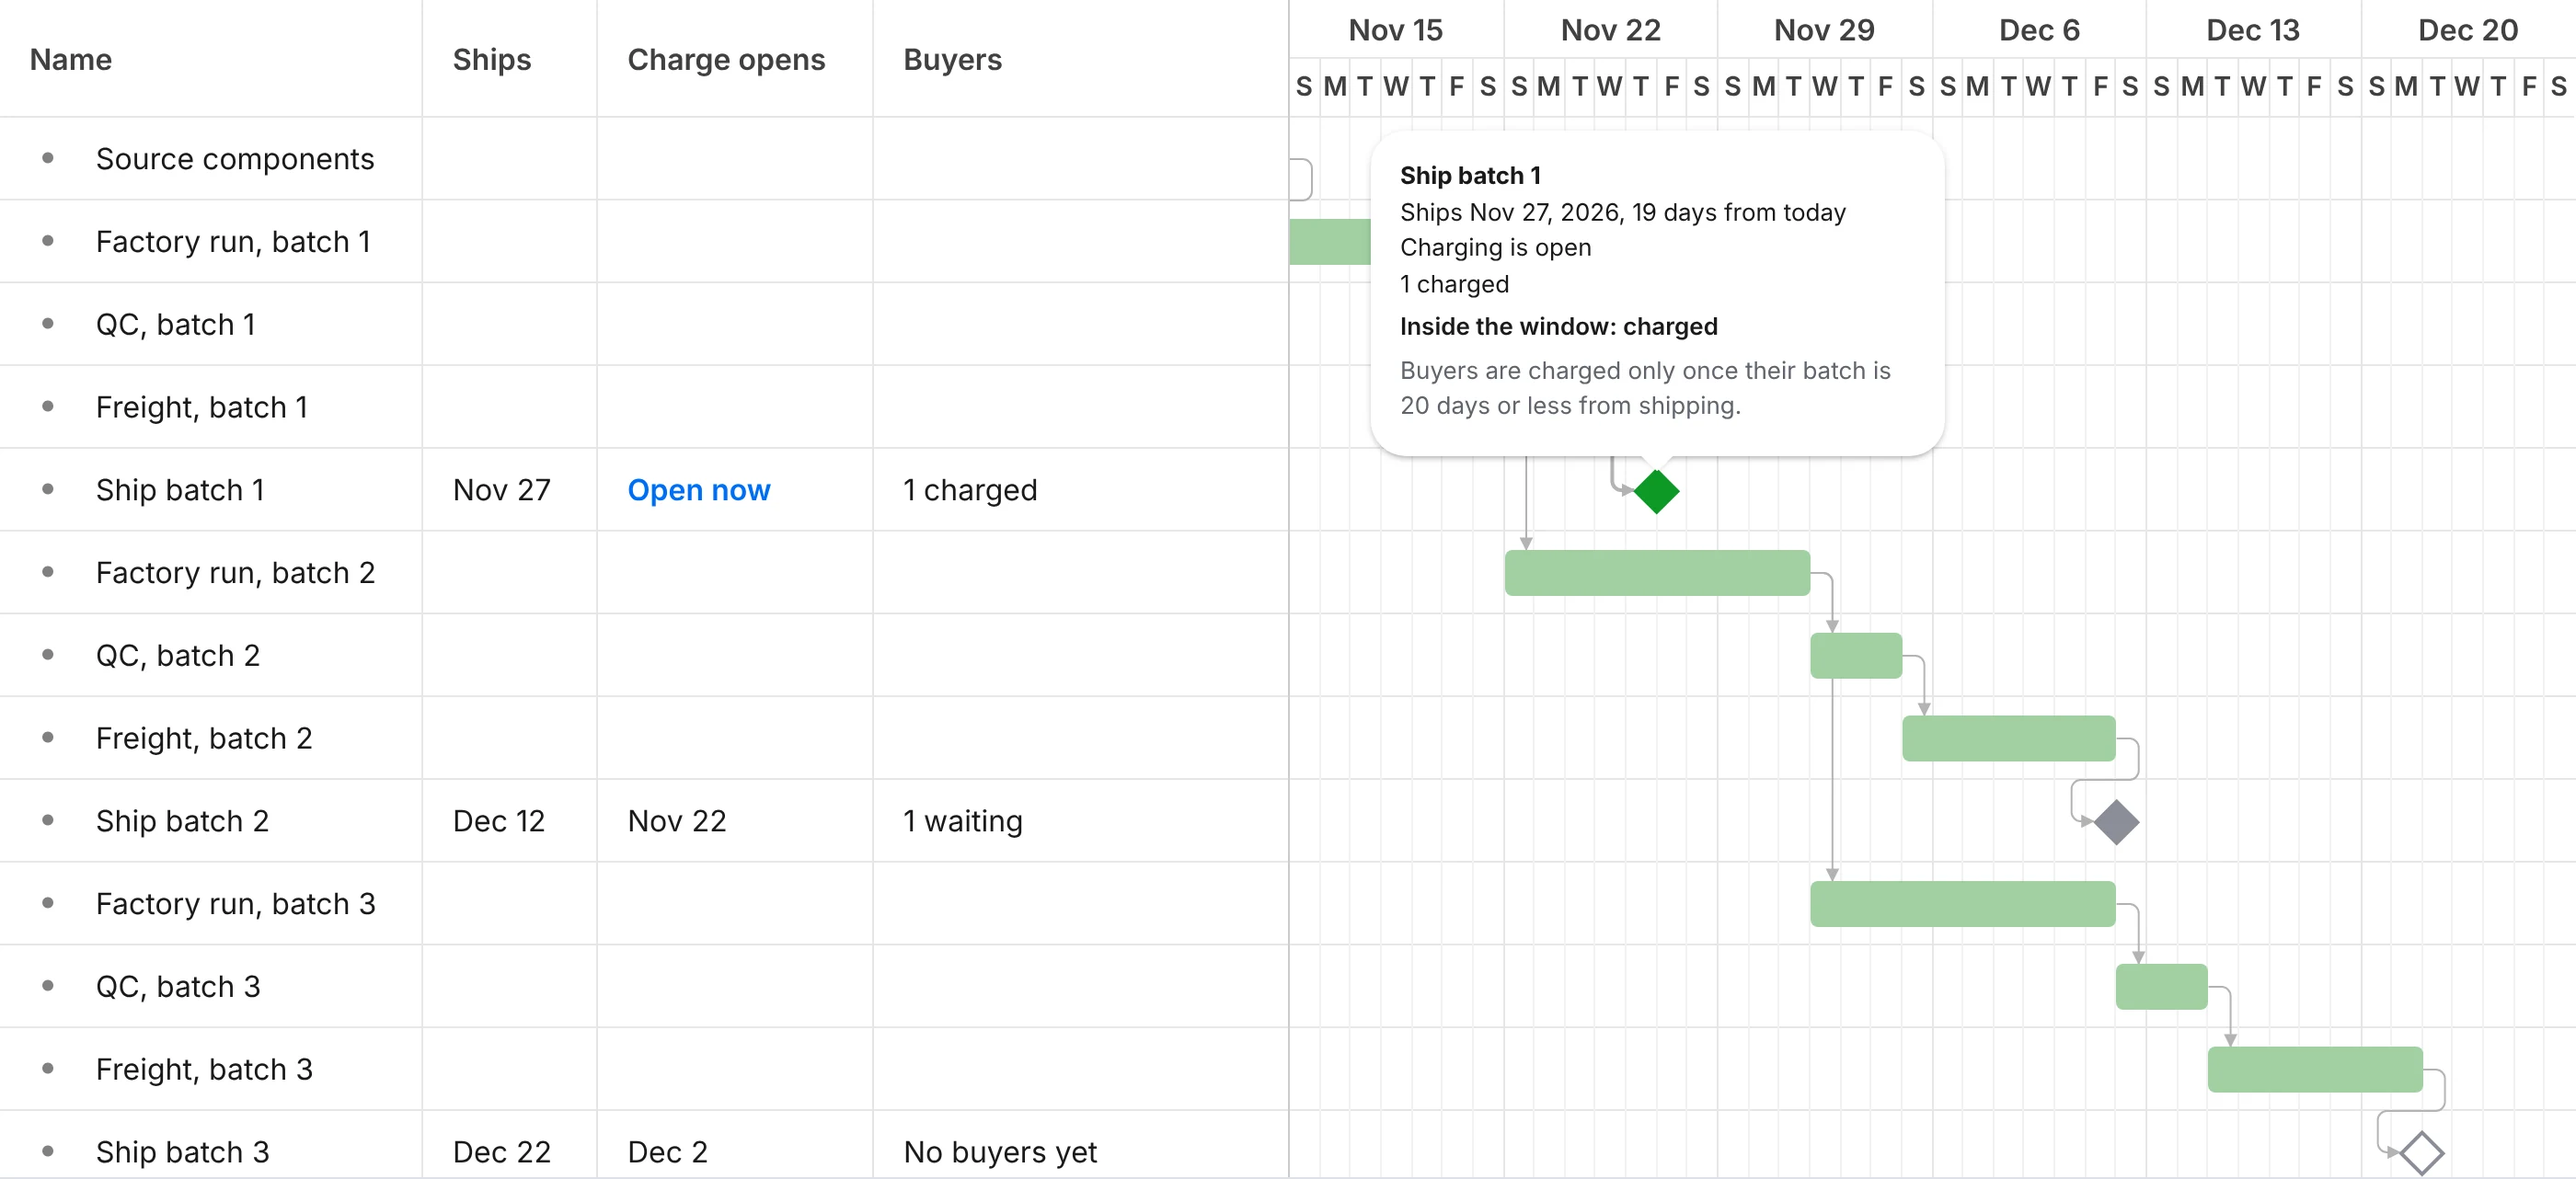
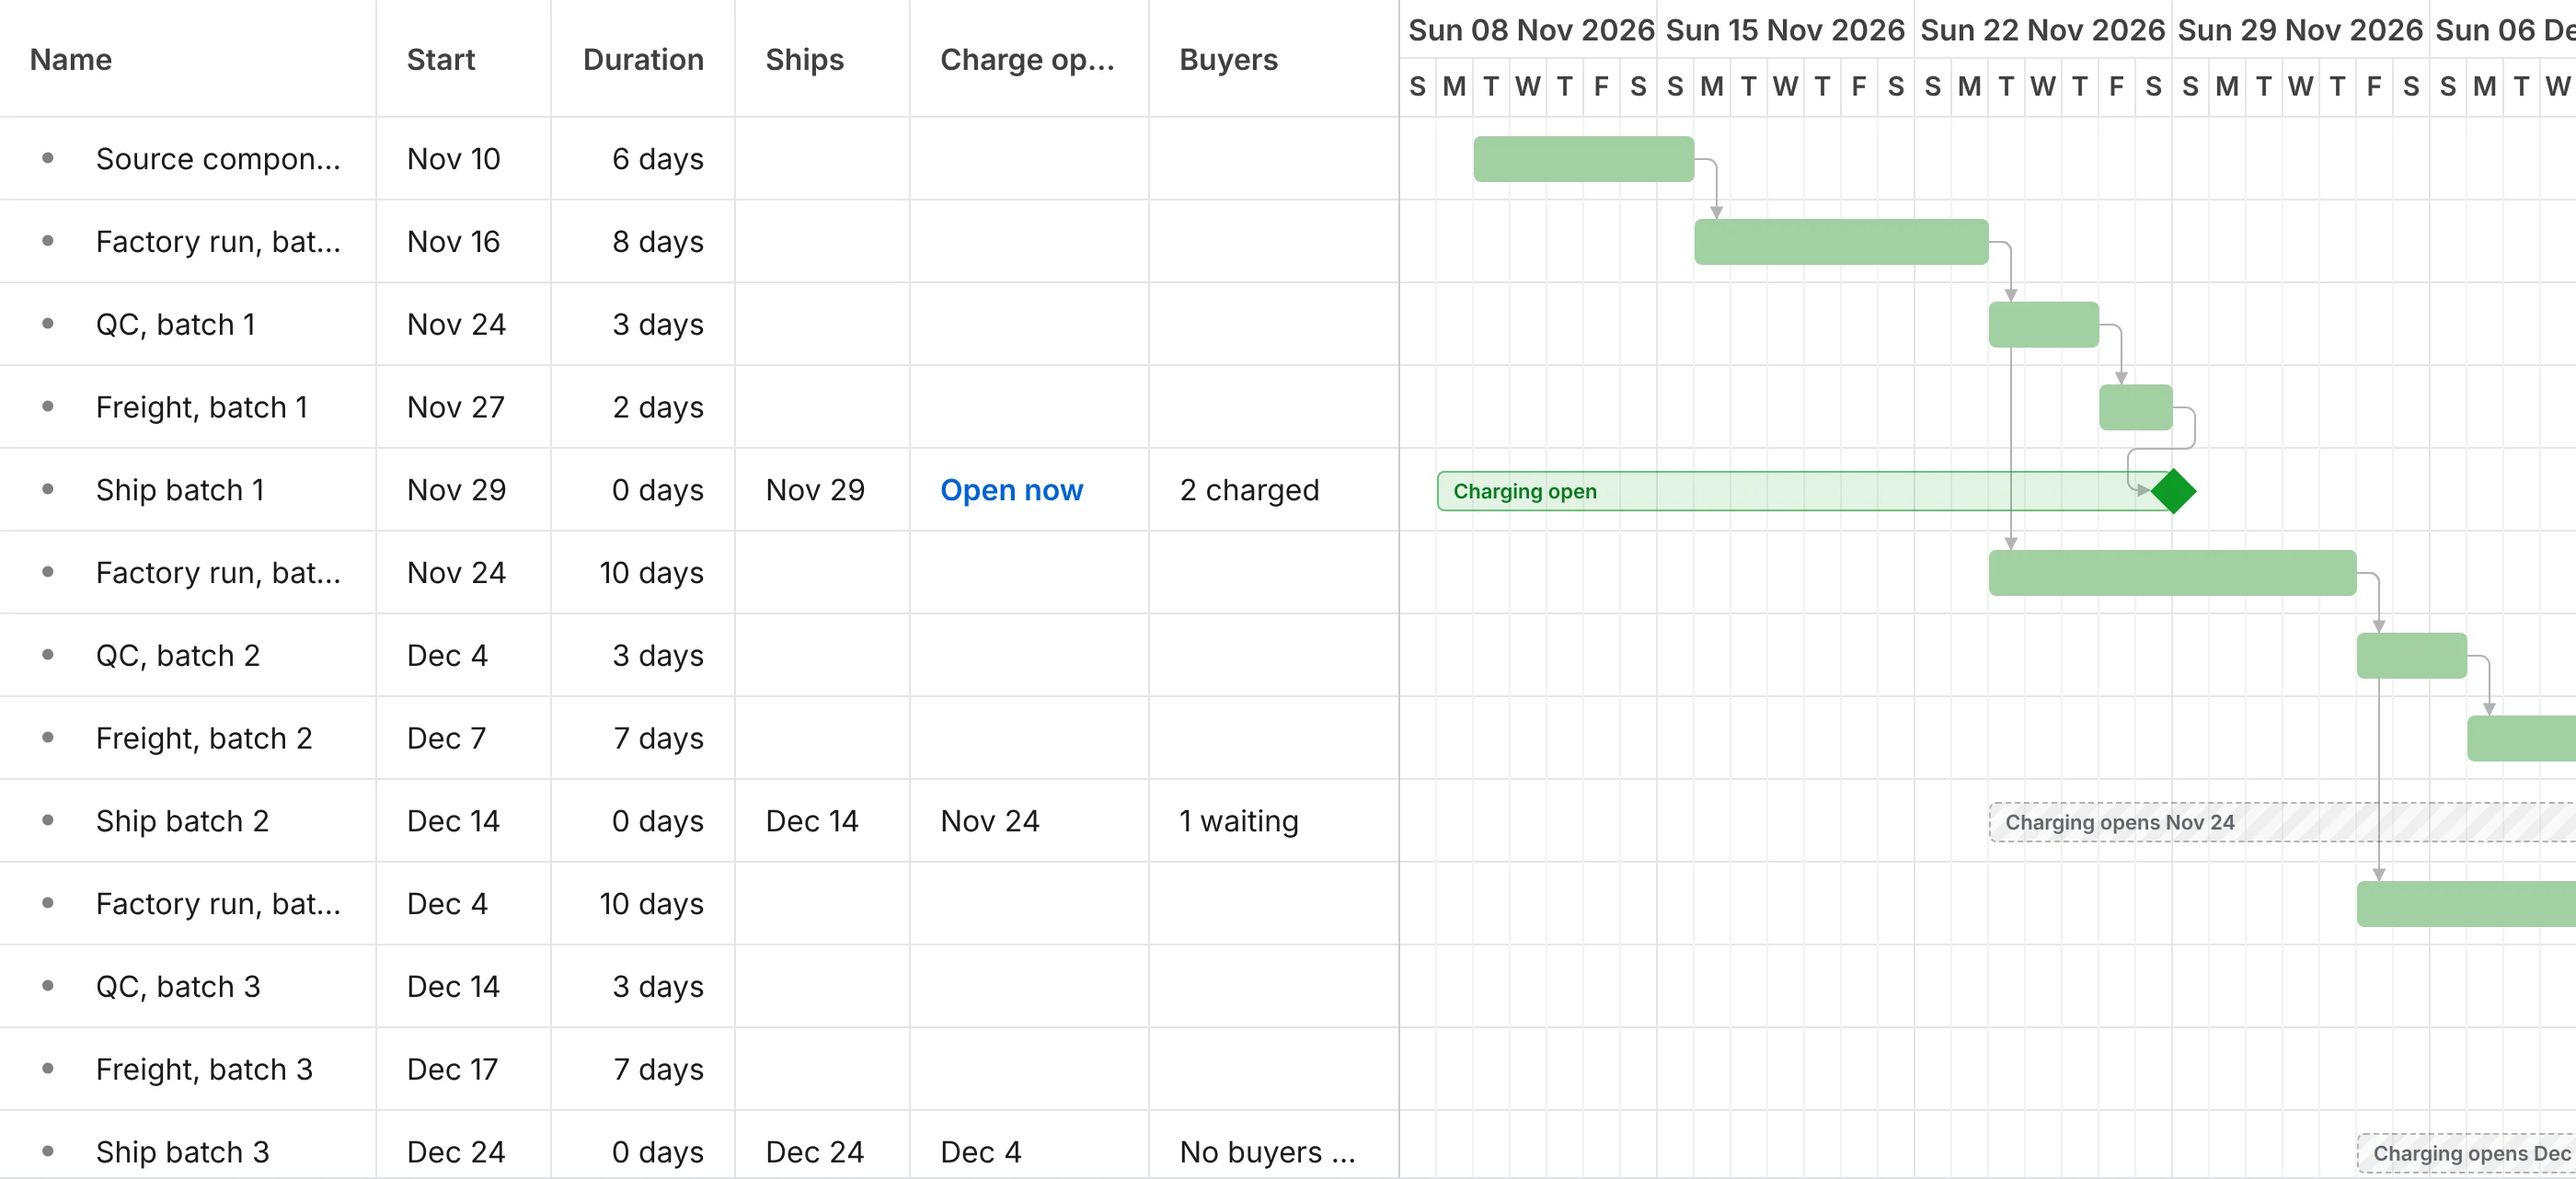
Show the charge window in the landing hero and keep the demo warm during judging

diff --git a/src/client/landing/Hero.tsx b/src/client/landing/Hero.tsx
@@ -30,13 +30,13 @@ export function Hero() {
               src={ganttShot}
               width={2800}
               height={1282}
-              alt="Batchday production plan in a Bryntum Gantt. Ship batch 1 on Nov 27 is green with charging open and 1 buyer charged. Ship batch 2 on Dec 12 is gray, charging opens Nov 22, 1 buyer waiting. Ship batch 3 on Dec 22 has no buyers yet."
+              alt="Batchday production plan in a Bryntum Gantt. Ship batch 1 on Nov 29 sits at the end of a green 20-day charge window, charging open, 2 buyers charged. Ship batch 2 on Dec 14 has a gray window, charging opens Nov 24, 1 buyer waiting. Ship batch 3 on Dec 24 has no buyers yet."
               fetchPriority="high"
               decoding="async"
             />
           </div>
           <figcaption className="lp-caption">
-            Captured from the Batchday console, where each ship milestone shows when charging opens and who has been charged
+            Captured from the Batchday console, where each ship milestone carries its 20-day charge window and shows who has been charged
           </figcaption>
         </figure>
       </div>
